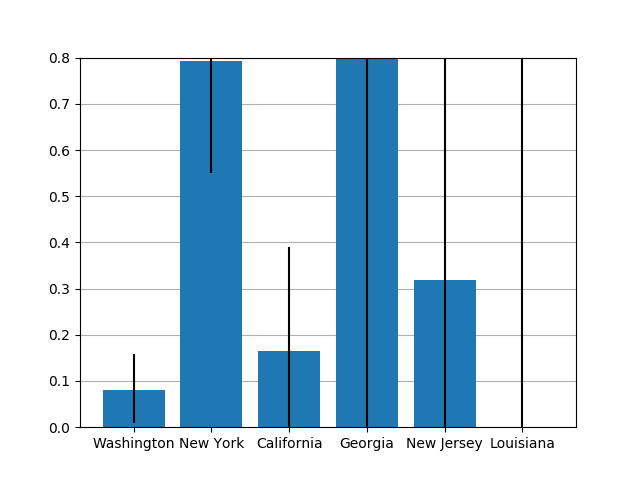
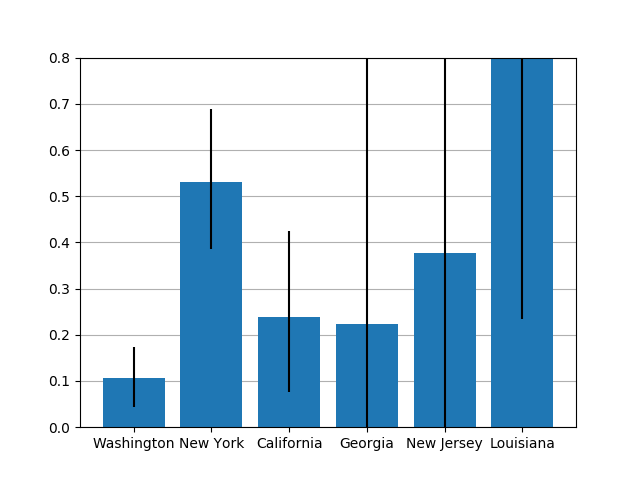
add one extra day for US

Changed region(s): [[0.4062, 0.125, 0.875, 0.9062], [0.2812, 0.125, 0.375, 0.4062], [0.1562, 0.7812, 0.2812, 0.8125]]

diff --git a/process_deaths_hacky.py b/process_deaths_hacky.py
@@ -37,10 +37,18 @@ for row in reader:
   if first:
     first = False
   else:
-    print(row)
     if row[1] == 'US' and row[0] != 'US' and row[0][-4] != ',':
-      series = np.array(list(map(float, row[4:-1])))
+      if row[-1] == '':
+        row[-1] = -1
+      series = np.array(list(map(float, row[4:])))
       us_counts[row[0]] = series
+f = open('data/us_mar23.csv')
+reader = csv.reader(f)
+for row in reader:
+  count = row[3]
+  if count == '':
+    count = -1
+  us_counts[row[0]][-1] = int(count)
 
 def calculate_growth(series, thresh=10, start=5):
   days = np.arange(0, series.shape[0])
